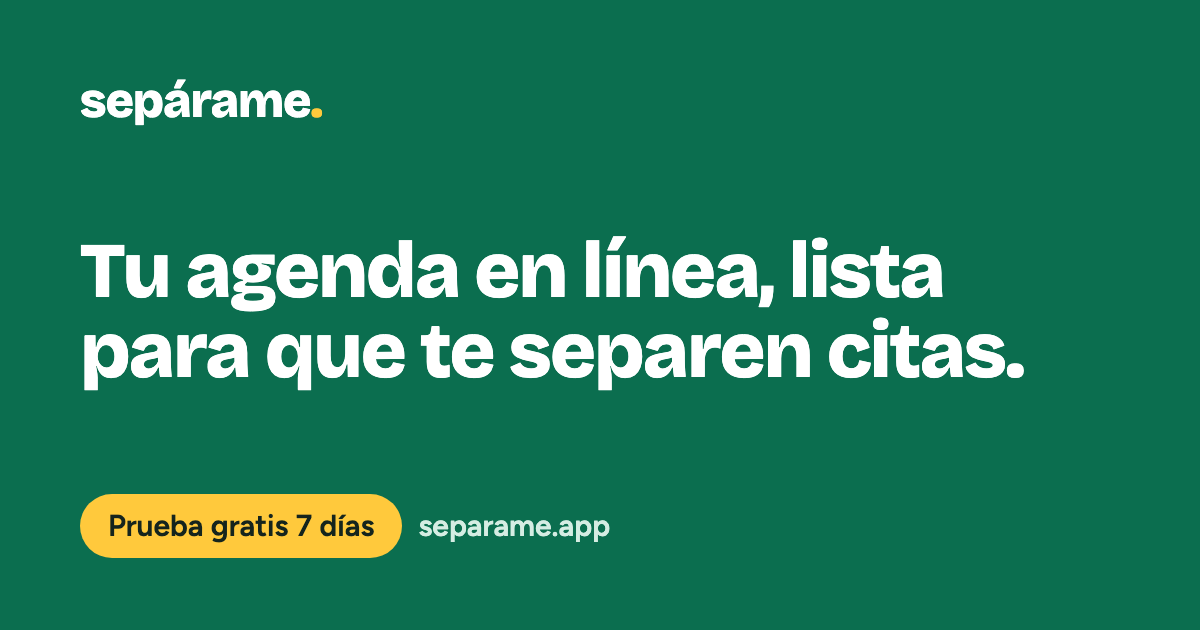
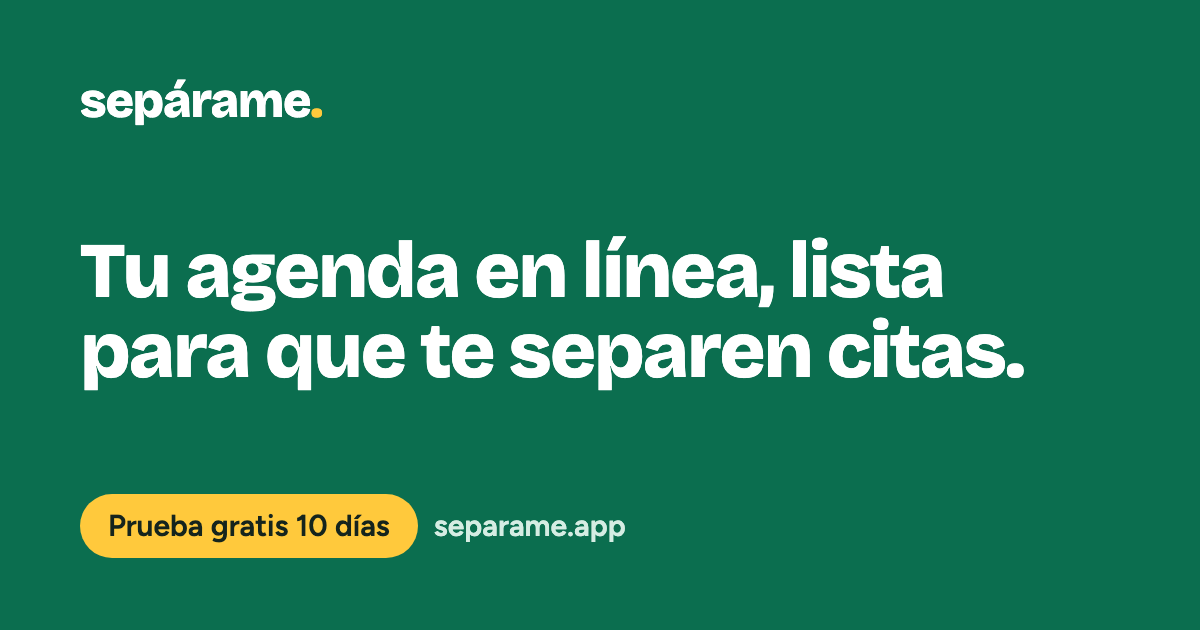
feat: 10-day free trial (was 7)
TRIAL_DAYS = 10 in shared/subscription.ts drives onboarding; the panel
copy (signup, onboarding, admin detail) now reads the constant instead of
a hardcoded number, and the onboarding test derives the expected trial end
from it. Static copy updated: landing (meta, hero, footer), terms, the OG
image (regenerated) and the docs.

Changed region(s): [[0.2467, 0.7841, 0.5242, 0.9048]]

diff --git a/frontend/booking/index.html b/frontend/booking/index.html
@@ -6,7 +6,7 @@
     <title>Sepárame · Tu agenda de citas en línea</title>
     <meta
       name="description"
-      content="Tu agenda en línea, lista para que te separen citas. Reservas sin llamadas, recordatorios automáticos y hecho para Colombia. Prueba gratis 7 días."
+      content="Tu agenda en línea, lista para que te separen citas. Reservas sin llamadas, recordatorios automáticos y hecho para Colombia. Prueba gratis 10 días."
     />
     <meta name="theme-color" content="#0B6E4F" />
     <link rel="icon" href="/favicon.svg" type="image/svg+xml" />
@@ -14,7 +14,7 @@
     <meta property="og:type" content="website" />
     <meta property="og:site_name" content="Sepárame" />
     <meta property="og:title" content="Sepárame · Tu agenda de citas en línea" />
-    <meta property="og:description" content="Tus clientes separan cita desde un enlace, sin llamadas. Prueba gratis 7 días." />
+    <meta property="og:description" content="Tus clientes separan cita desde un enlace, sin llamadas. Prueba gratis 10 días." />
     <meta property="og:url" content="https://separame.app/" />
     <meta property="og:image" content="https://separame.app/og.png" />
     <meta property="og:locale" content="es_CO" />
@@ -44,7 +44,7 @@
               <a href="/app/signup" class="h-14 px-7 rounded-full bg-accent text-ink font-bold text-[17px] inline-flex items-center justify-center no-underline hover:bg-[#ffd666] hover:text-ink">Crear mi agenda gratis</a>
               <a href="/app/login" class="h-14 px-7 rounded-full border-2 border-white/40 text-white font-bold text-[17px] inline-flex items-center justify-center no-underline hover:border-white hover:text-white">Ya tengo cuenta</a>
             </div>
-            <p class="m-0 text-[14px] font-semibold text-mint">Prueba gratis 7 días · desde $5.000/mes</p>
+            <p class="m-0 text-[14px] font-semibold text-mint">Prueba gratis 10 días · desde $5.000/mes</p>
           </div>
 
           <div class="hidden md:block" aria-hidden="true">
@@ -107,7 +107,7 @@
       <section class="bg-primary-soft rounded-[24px] p-6 md:p-10 flex flex-col md:flex-row md:items-center md:justify-between gap-5" aria-labelledby="cta-title">
         <div class="flex flex-col gap-2">
           <h2 id="cta-title" class="m-0 font-display font-extrabold text-[26px] md:text-[30px] leading-[1.1] tracking-[-0.5px]">Tu enlace listo en minutos.</h2>
-          <p class="m-0 text-[15px] text-ink-2">Prueba gratis 7 días · desde $5.000/mes</p>
+          <p class="m-0 text-[15px] text-ink-2">Prueba gratis 10 días · desde $5.000/mes</p>
         </div>
         <a href="/app/signup" class="h-14 px-7 rounded-full bg-primary text-white font-bold text-[17px] inline-flex items-center justify-center no-underline hover:bg-primary-dark hover:text-white shrink-0">Crear mi agenda gratis</a>
       </section>

diff --git a/frontend/app/src/features/admin/AdminProDetailPage.tsx b/frontend/app/src/features/admin/AdminProDetailPage.tsx
@@ -4,7 +4,7 @@ import { useMutation, useQueryClient } from '@tanstack/react-query';
 import { apiPaths, type AdminProDetailResponse, type ManualPaymentMethod, type ManualPaymentRequest, type ManualPaymentResponse } from '@shared/api';
 import { formatCop, formatDateNoYear, formatDateShort, initials } from '@shared/format';
 import { manualPaymentSchema, rejectNoticeSchema } from '@shared/schemas';
-import { extendPaidUntil } from '@shared/subscription';
+import { TRIAL_DAYS, extendPaidUntil } from '@shared/subscription';
 import { bogotaDate, todayBogota } from '@shared/time';
 import type { Payment, SubscriptionStatus } from '@shared/types';
 import { Chip } from '../../components/ui/Chip';
@@ -361,7 +361,7 @@ function Detail({ proId, data }: { proId: string; data: AdminProDetailResponse }
                     <span className="font-bold text-[14px]">Prueba gratis</span>
                     <span className="font-bold text-[14px]">—</span>
                   </div>
-                  <span className="text-[13px] text-muted">{formatDateShort(bogotaDate(data.trialStartedAt))} · 7 días</span>
+                  <span className="text-[13px] text-muted">{formatDateShort(bogotaDate(data.trialStartedAt))} · {TRIAL_DAYS} días</span>
                 </div>
               </li>
             </ul>

diff --git a/frontend/app/src/features/onboarding/OnboardingPage.tsx b/frontend/app/src/features/onboarding/OnboardingPage.tsx
@@ -2,6 +2,7 @@ import { useState, type FormEvent, type ReactNode } from 'react';
 import { Navigate, useNavigate } from 'react-router';
 import { useQueryClient } from '@tanstack/react-query';
 import { apiPaths, type ProfileResponse, type UpsertServiceRequest } from '@shared/api';
+import { TRIAL_DAYS } from '@shared/subscription';
 import { DEFAULT_RULES, DEFAULT_SCHEDULE } from '@shared/availability';
 import { formatCop, formatDuration } from '@shared/format';
 import { onboardingSchema, upsertServiceSchema } from '@shared/schemas';
@@ -297,7 +298,7 @@ export function OnboardingPage() {
               </div>
             </div>
           </div>
-          <div className="text-[14px] text-ink-2 leading-[1.45]">Tienes 7 días de prueba gratis con todo funcionando. Después eliges un plan desde «Suscripción».</div>
+          <div className="text-[14px] text-ink-2 leading-[1.45]">Tienes {TRIAL_DAYS} días de prueba gratis con todo funcionando. Después eliges un plan desde «Suscripción».</div>
           <div>
             <button type="button" onClick={finish} className="h-[52px] px-8 rounded-full bg-primary text-white font-bold text-[16px] hover:bg-primary-dark w-full sm:w-auto">
               Ir a mi agenda

diff --git a/backend/functions/pro-account/index.test.ts b/backend/functions/pro-account/index.test.ts
@@ -6,6 +6,7 @@ import { trialHash } from '../../services/profiles';
 import { DEFAULT_PRICE_SEEDS } from '../../services/prices';
 import { apiEvent, canceledTx, parse, proClaims, setTestEnv, SUB_ID } from '../../testing/fixtures';
 import { handler } from './index';
+import { TRIAL_DAYS } from '../../../shared/subscription';
 
 setTestEnv();
 const ddb = mockClient(DynamoDBDocumentClient);
@@ -34,7 +35,7 @@ describe('POST /me/onboarding', () => {
     expect(items[0].Put!.Item).toMatchObject(ownerKey(SUB_ID));
     expect(items[1].Put!.Item).toMatchObject(slugKey('dra-laura-perez'));
     const sub = items[3].Put!.Item!;
-    expect(sub).toMatchObject({ SK: 'SUB', trialEndsAt: '2026-10-27T15:00:00.000Z', paidUntil: null, priceVersionId: 'fundador-v1', GSI1PK: 'SUBS' });
+    expect(sub).toMatchObject({ SK: 'SUB', trialEndsAt: new Date(NOW.getTime() + TRIAL_DAYS * 24 * 60 * 60 * 1000).toISOString(), paidUntil: null, priceVersionId: 'fundador-v1', GSI1PK: 'SUBS' });
     expect(items[5].Put!.Item).toMatchObject(trialKey(trialHash('laura@correo.com')));
     expect(parse(res).subscription.state).toBe('trial');
   });

diff --git a/frontend/app/src/features/auth/AuthPages.tsx b/frontend/app/src/features/auth/AuthPages.tsx
@@ -4,6 +4,7 @@ import { emailSchema } from '@shared/schemas';
 import { auth } from '../../lib/auth';
 import { authErrorMessage, passwordOk, type SignInStep } from '../../lib/authClient';
 import { AuthHeading, AuthLayout, CodeInput, EmailField, FormError, FormNotice, PasswordField, ResendButton, SubmitButton } from './parts';
+import { TRIAL_DAYS } from '@shared/subscription';
 
 const normalizeEmail = (raw: string) => raw.trim().toLowerCase();
 
@@ -186,7 +187,7 @@ export function SignupPage() {
       }
     >
       <form onSubmit={submit} className="flex flex-col gap-5" noValidate>
-        <AuthHeading title="Crea tu cuenta">7 días gratis. Sin tarjeta.</AuthHeading>
+        <AuthHeading title="Crea tu cuenta">{TRIAL_DAYS} días gratis. Sin tarjeta.</AuthHeading>
         <EmailField value={email} onChange={setEmail} autoFocus />
         <PasswordField label="Contraseña" value={password} onChange={setPassword} autoComplete="new-password" showRules />
         <FormError message={error} />

diff --git a/frontend/booking/terms/index.html b/frontend/booking/terms/index.html
@@ -44,7 +44,7 @@
 
       <h2>3. Prueba gratis</h2>
       <p>
-        Cada profesional tiene una <strong>prueba gratis de 7 días</strong>, una sola vez por correo verificado. No pedimos medio de pago para empezar. Al terminar
+        Cada profesional tiene una <strong>prueba gratis de 10 días</strong>, una sola vez por correo verificado. No pedimos medio de pago para empezar. Al terminar
         la prueba, para seguir recibiendo reservas debes pagar un plan.
       </p>
 

diff --git a/shared/subscription.ts b/shared/subscription.ts
@@ -6,7 +6,7 @@
 import { addMonths, maxInstant, type ISOInstant } from './time';
 import type { SubscriptionStatus } from './types';
 
-export const TRIAL_DAYS = 7;
+export const TRIAL_DAYS = 10;
 export const GRACE_DAYS = 3;
 /** Renewal reminder email this many days before accessUntil. */
 export const RENEWAL_NOTICE_DAYS = 3;

diff --git a/CLAUDE.md b/CLAUDE.md
@@ -51,7 +51,7 @@ Calendar (requiere revisión de Google), anticipos, lista de espera, planes para
 equipos y **notas clínicas** (datos de salud = datos sensibles por ley).
 
 ## Reglas de suscripción (se aplican SIEMPRE en el servidor, nunca solo en la UI)
-- **Prueba gratis de 7 días** por profesional. Una sola prueba por correo verificado
+- **Prueba gratis de 10 días** por profesional (`TRIAL_DAYS` en `shared/subscription.ts`). Una sola prueba por correo verificado
   (sin verificación por SMS; se bloquean dominios de correo desechables).
 - **Vigente** = `now < max(trialEndsAt, paidUntil) + gracia`. Gracia de 2–3 días.
 - **Vencida:**
